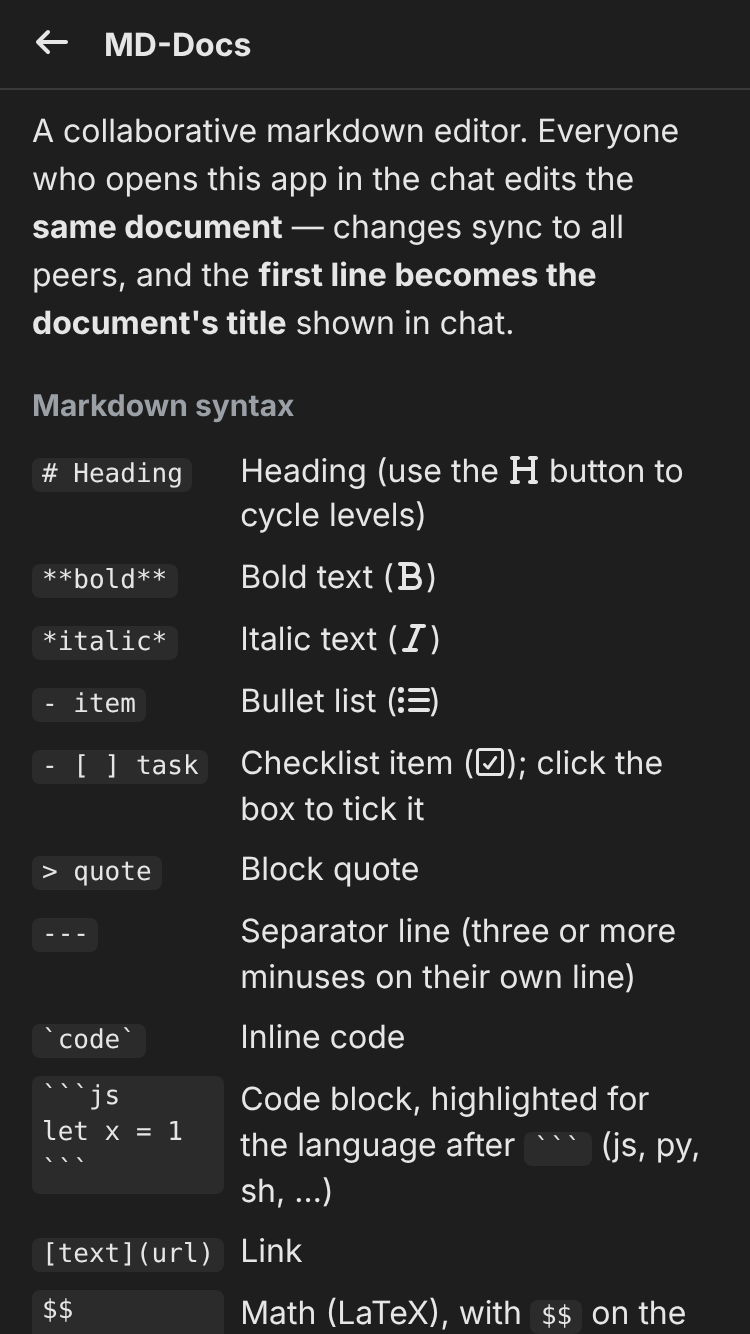
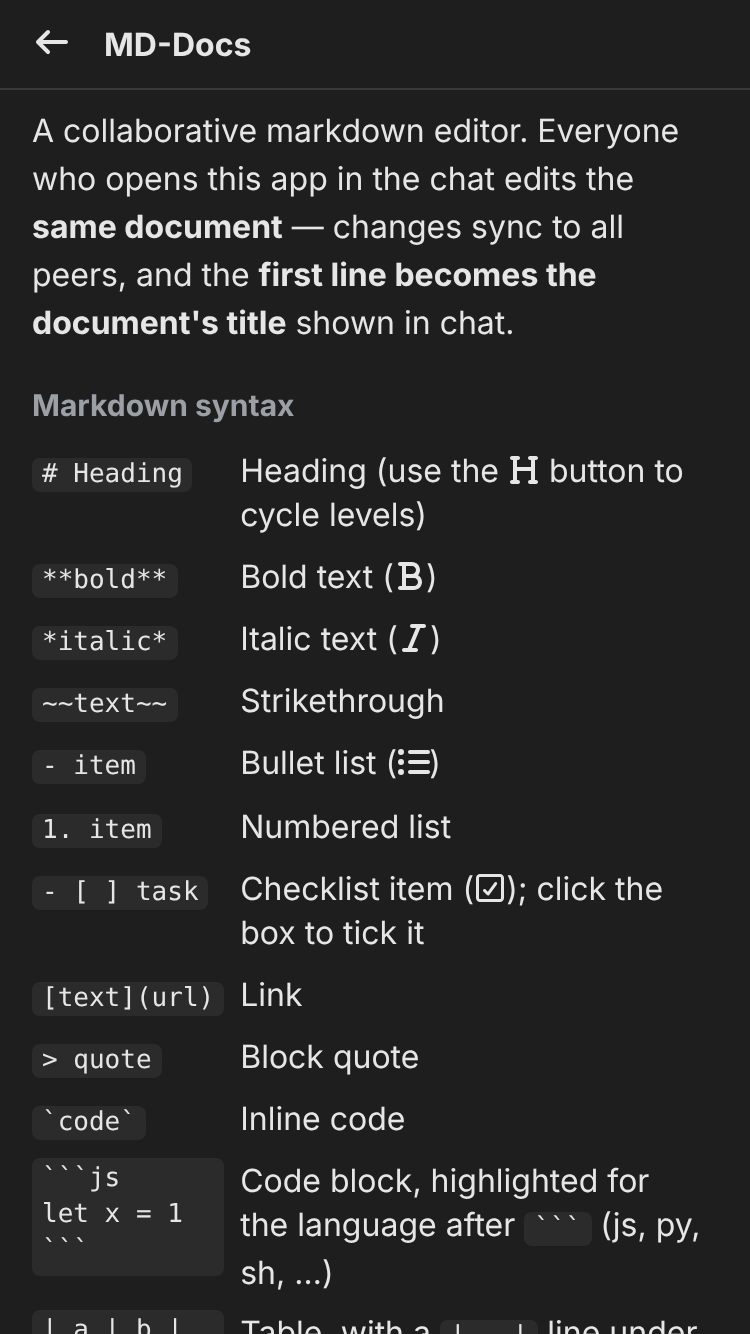
Reorder the help's syntax list and add the rows it was missing
The list now follows the toolbar's buttons in their order (heading, bold,
italic, bullet list, checklist), then links, then the rarer blocks, with
the separator last. Added strikethrough after italic, numbered lists after
bullets, and tables after code blocks; the editor renders all three, but
the help never mentioned them.

diff --git a/src/ui/toolbar.ts b/src/ui/toolbar.ts
@@ -212,14 +212,17 @@ function buildHelp(): HTMLElement {
         <tr><td><code># Heading</code></td><td>Heading (use the ${ico(faHeading)} button to cycle levels)</td></tr>
         <tr><td><code>**bold**</code></td><td>Bold text (${ico(faBold)})</td></tr>
         <tr><td><code>*italic*</code></td><td>Italic text (${ico(faItalic)})</td></tr>
+        <tr><td><code>~~text~~</code></td><td>Strikethrough</td></tr>
         <tr><td><code>- item</code></td><td>Bullet list (${ico(faListUl)})</td></tr>
+        <tr><td><code>1. item</code></td><td>Numbered list</td></tr>
         <tr><td><code>- [ ] task</code></td><td>Checklist item (${ico(faSquareCheck)}); click the box to tick it</td></tr>
+        <tr><td><code>[text](url)</code></td><td>Link</td></tr>
         <tr><td><code>&gt; quote</code></td><td>Block quote</td></tr>
-        <tr><td><code>---</code></td><td>Separator line (three or more minuses on their own line)</td></tr>
         <tr><td><code>\`code\`</code></td><td>Inline code</td></tr>
         <tr><td><pre><code>\`\`\`js&#10;let x = 1&#10;\`\`\`</code></pre></td><td>Code block, highlighted for the language after <code>\`\`\`</code> (js, py, sh, …)</td></tr>
-        <tr><td><code>[text](url)</code></td><td>Link</td></tr>
+        <tr><td><pre><code>| a | b |&#10;|---|---|&#10;| 1 | 2 |</code></pre></td><td>Table, with a <code>|---|</code> line under the header row</td></tr>
         <tr><td><pre><code>$$&#10;x^2&#10;$$</code></pre></td><td>Math (LaTeX), with <code>$$</code> on the lines above and below</td></tr>
+        <tr><td><code>---</code></td><td>Separator line (three or more minuses on their own line)</td></tr>
       </table>
       <h2>Toolbar</h2>
       <table class="help-tools">

diff --git a/CHANGELOG.md b/CHANGELOG.md
@@ -58,9 +58,13 @@ All notable changes to MD-Docs are documented here. This project adheres to
 - On a screen up to 560px wide, help opens as a full screen with a back
   button, like the history view, instead of a card over the editor. Wider
   screens keep the dialog. (#32)
-- Help explains fenced code blocks and the language name that picks their
-  highlighting, shows multi-line examples (code, math) as one block, and
-  lists the toolbar's buttons as a table instead of one long sentence. (#32)
+- Help's syntax list now runs from the toolbar's own buttons, in the
+  toolbar's order, through links to the rarer blocks, and adds what the
+  editor already rendered but the help never mentioned: strikethrough,
+  numbered lists, fenced code blocks (with the language name that picks
+  their highlighting) and tables. Multi-line examples (code, tables, math)
+  show as one block, and the toolbar's buttons are a table instead of one
+  long sentence. (#32)
 
 ### Fixed
 - `npm test` dropped unit-test results: each run reported a different subset,
